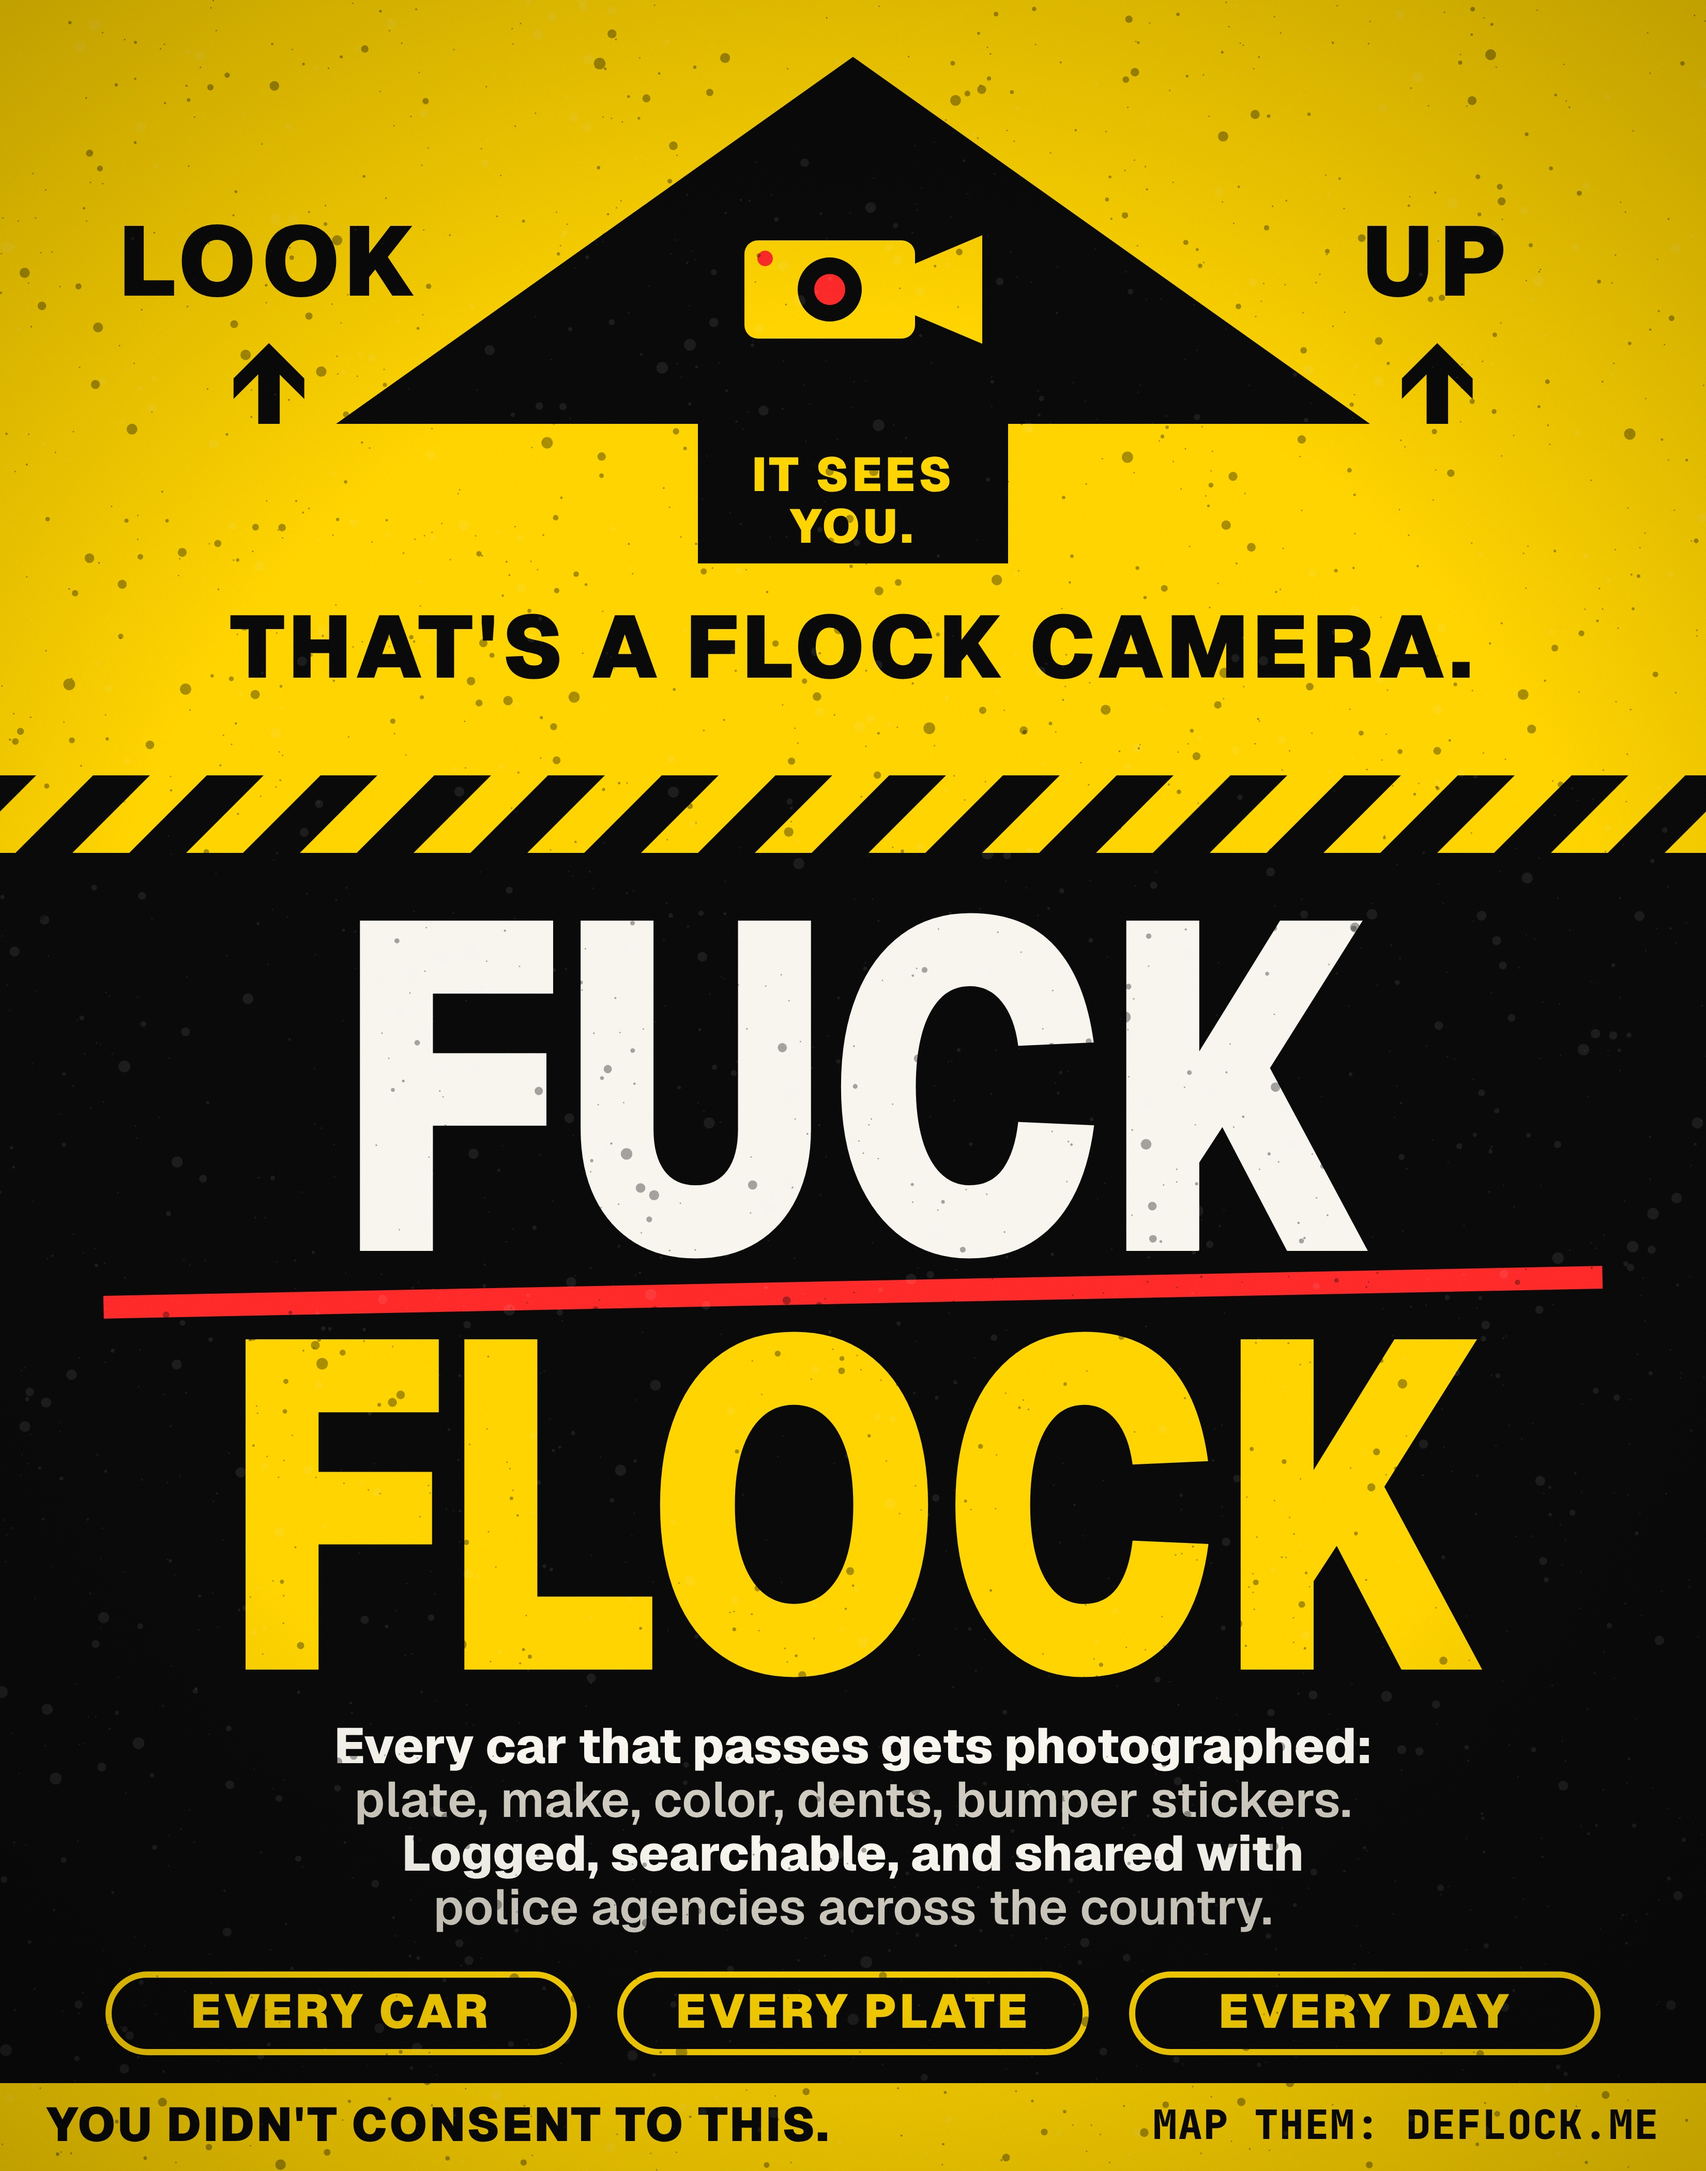
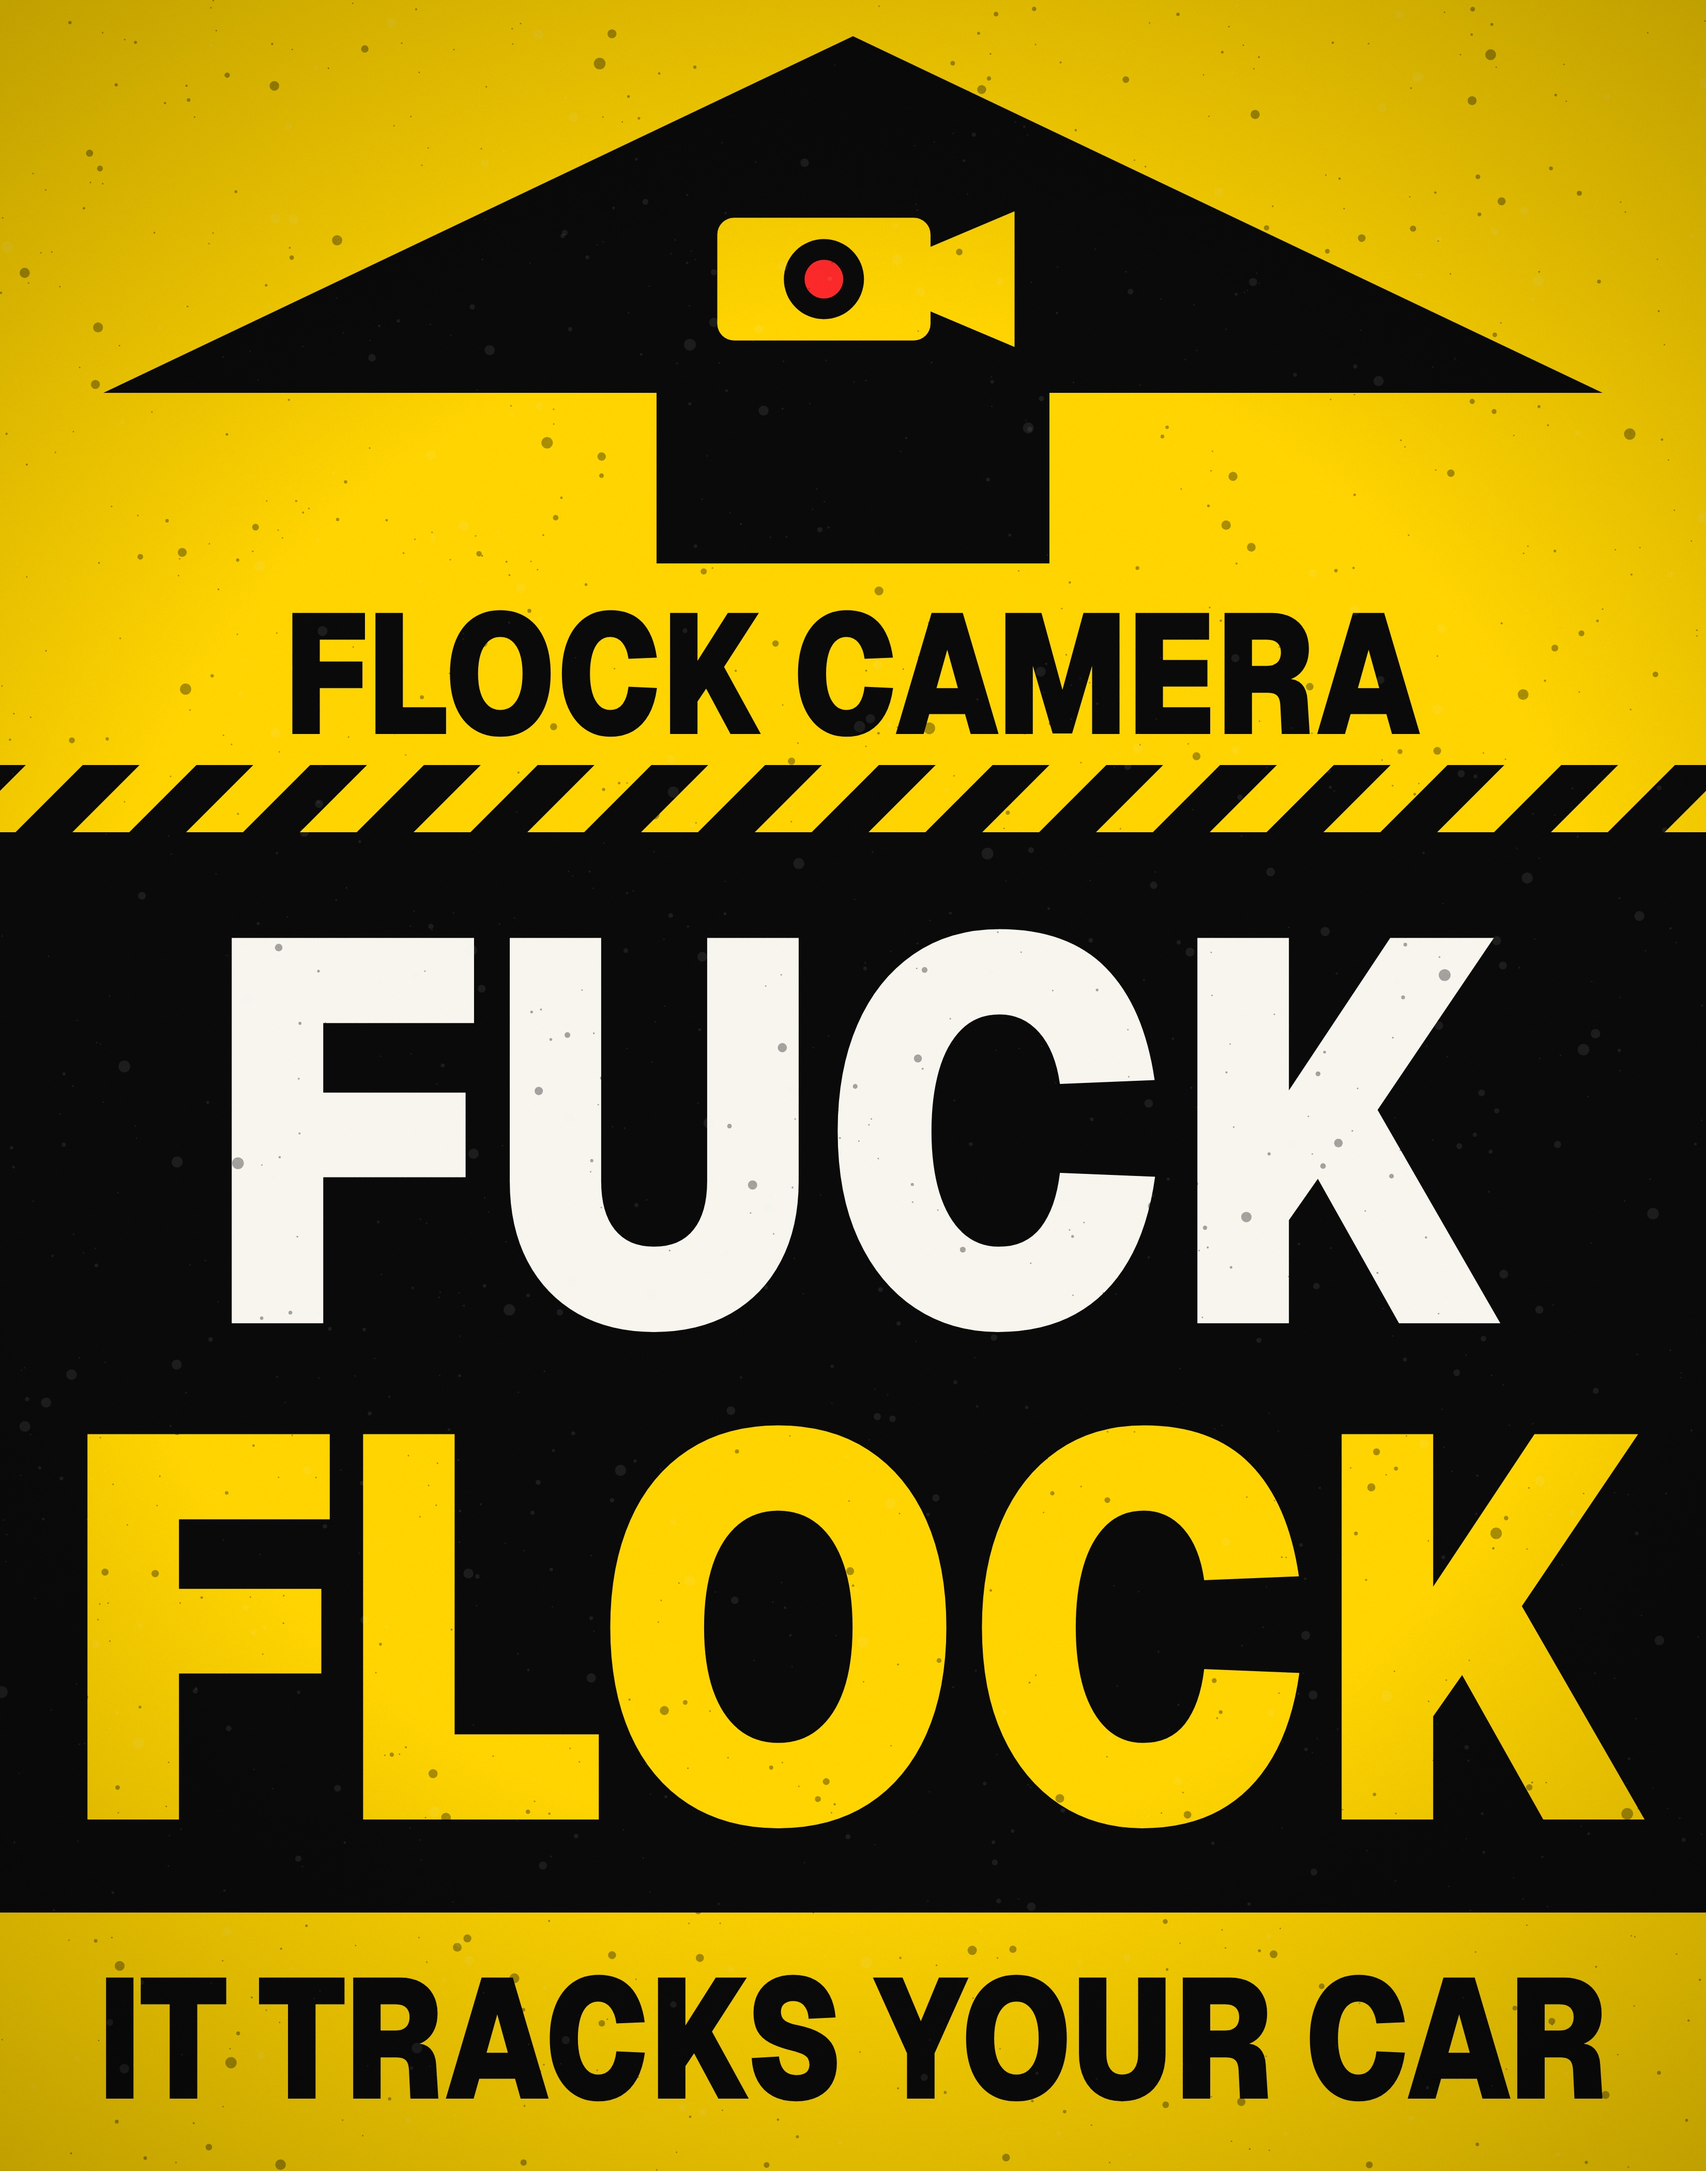
Fuck Flock poster: roadside edition, big words only
Claude-Session: https://claude.ai/code/session_01NSJvdmHsHoazKiuuGVQfMY

diff --git a/story/flock_poster.html b/story/flock_poster.html
@@ -22,47 +22,33 @@
 
   c.fillStyle = INK; c.fillRect(0, 0, W, H);
 
+  // Roadside edition: readable by passing drivers in ~2 seconds — arrow + 4 huge words, no small print.
   // ---------------- TOP: the arrow ----------------
-  // yellow field with a giant black arrow pointing straight up
-  c.fillStyle = YEL; c.fillRect(0, 0, W, 1500);
+  c.fillStyle = YEL; c.fillRect(0, 0, W, 1480);
   c.save(); c.fillStyle = INK; c.beginPath();
-  const ax = W / 2, tip = 110, headB = 820, headW = 1000, shaftW = 300, shaftB = 1090;
+  const ax = W / 2, tip = 70, headB = 760, headW = 1450, shaftW = 380, shaftB = 1090;
   c.moveTo(ax, tip); c.lineTo(ax + headW, headB); c.lineTo(ax + shaftW, headB); c.lineTo(ax + shaftW, shaftB); c.lineTo(ax - shaftW, shaftB); c.lineTo(ax - shaftW, headB); c.lineTo(ax - headW, headB); c.closePath(); c.fill(); c.restore();
-  // camera icon inside the arrow head
-  c.save(); c.translate(ax, 560); c.fillStyle = YEL; c.beginPath(); c.roundRect(-210, -95, 330, 190, 26); c.fill(); c.beginPath(); c.moveTo(120, -50); c.lineTo(250, -105); c.lineTo(250, 105); c.lineTo(120, 50); c.closePath(); c.fill();
-  c.fillStyle = INK; c.beginPath(); c.arc(-45, 0, 62, 0, TAU); c.fill(); c.fillStyle = RED; c.beginPath(); c.arc(-45, 0, 30, 0, TAU); c.fill(); c.fillStyle = RED; c.beginPath(); c.arc(-170, -60, 15, 0, TAU); c.fill(); c.restore();
-  // side labels on the yellow
-  line('LOOK', 520, 520, G(900, 190), INK, 'center', 10); line('UP', 2780, 520, G(900, 190), INK, 'center', 10);
-  line('↑', 520, 760, G(900, 220), INK); line('↑', 2780, 760, G(900, 220), INK);
-  line("THAT'S A FLOCK CAMERA.", ax, 1265, G(900, 170), INK, 'center', 8);
-  line('IT SEES', ax, 925, G(900, 92), YEL, 'center', 6); line('YOU.', ax, 1025, G(900, 92), YEL, 'center', 6);
+  // camera icon in the arrow head
+  c.save(); c.translate(ax, 540); c.scale(1.25, 1.25); c.fillStyle = YEL; c.beginPath(); c.roundRect(-210, -95, 330, 190, 26); c.fill(); c.beginPath(); c.moveTo(120, -50); c.lineTo(250, -105); c.lineTo(250, 105); c.lineTo(120, 50); c.closePath(); c.fill();
+  c.fillStyle = INK; c.beginPath(); c.arc(-45, 0, 62, 0, TAU); c.fill(); c.fillStyle = RED; c.beginPath(); c.arc(-45, 0, 30, 0, TAU); c.fill(); c.restore();
+  big('FLOCK CAMERA', W / 2, 1420, 330, INK, W - 200, 0.82, 0);
 
   // hazard stripe band
-  c.save(); c.beginPath(); c.rect(0, 1500, W, 150); c.clip(); c.fillStyle = INK; c.fillRect(0, 1500, W, 150); c.fillStyle = YEL;
-  for (let x = -300; x < W + 300; x += 220) { c.beginPath(); c.moveTo(x, 1650); c.lineTo(x + 110, 1650); c.lineTo(x + 260, 1500); c.lineTo(x + 150, 1500); c.closePath(); c.fill(); } c.restore();
+  c.save(); c.beginPath(); c.rect(0, 1480, W, 130); c.clip(); c.fillStyle = INK; c.fillRect(0, 1480, W, 130); c.fillStyle = YEL;
+  for (let x = -300; x < W + 300; x += 220) { c.beginPath(); c.moveTo(x, 1610); c.lineTo(x + 110, 1610); c.lineTo(x + 240, 1480); c.lineTo(x + 130, 1480); c.closePath(); c.fill(); } c.restore();
 
-  // ---------------- HEADLINE ----------------
-  big('FUCK', W / 2, 2420, 900, WHITE, W - 240, 0.8, -6);
-  big('FLOCK', W / 2, 3230, 900, YEL, W - 240, 0.8, -6);
-  // red redaction bar slashing through, behind nothing — a hit of red
-  c.save(); c.translate(W / 2, 2500); c.rotate(-0.02); c.fillStyle = RED; c.fillRect(-1450, -22, 2900, 44); c.restore();
+  // ---------------- HEADLINE: as big as the sheet allows ----------------
+  big('FUCK', W / 2, 2560, 1050, WHITE, W - 160, 0.86, -4);
+  big('FLOCK', W / 2, 3520, 1050, YEL, W - 160, 0.86, -4);
 
-  // ---------------- FACTS ----------------
-  const facts = ['Every car that passes gets photographed:', 'plate, make, color, dents, bumper stickers.', 'Logged, searchable, and shared with', 'police agencies across the country.'];
-  facts.forEach((s, i) => line(s, W / 2, 3385 + i * 104, G(i % 2 ? 600 : 800, 96), i % 2 ? '#CFCBC0' : WHITE));
-  // three chips
-  const chips = ['EVERY CAR', 'EVERY PLATE', 'EVERY DAY'], cw = 900, cg = 90, cx0 = (W - (3 * cw + 2 * cg)) / 2;
-  chips.forEach((s, i) => { const x = cx0 + i * (cw + cg); c.save(); c.beginPath(); c.roundRect(x, 3820, cw, 150, 75); c.lineWidth = 12; c.strokeStyle = YEL; c.stroke(); c.restore(); line(s, x + cw / 2, 3898, G(900, 92), YEL, 'center', 6); });
-
-  // ---------------- FOOTER ----------------
-  c.fillStyle = YEL; c.fillRect(0, 4030, W, 170);
-  line("YOU DIDN'T CONSENT TO THIS.", 90, 4117, G(900, 92), INK, 'left', 4);
-  line('MAP THEM: DEFLOCK.ME', W - 90, 4117, MONO(800, 78), INK, 'right', 2);
+  // ---------------- one line: why ----------------
+  c.fillStyle = YEL; c.fillRect(0, 3700, W, 500);
+  big('IT TRACKS YOUR CAR', W / 2, 4060, 330, INK, W - 200, 0.82, 0);
 
   // ---------------- stencil grunge ----------------
   // speckle knock-outs (spray-paint dropouts) + fine grain, so it reads like a street poster
   c.save(); c.globalCompositeOperation = 'source-atop';
-  for (let i = 0; i < 4500; i++) { const x = hash(i, 1) * W, y = hash(i, 2) * H, r = 1.5 + Math.pow(hash(i, 3), 6) * 10; c.fillStyle = hash(i, 4) > 0.5 ? 'rgba(10,10,10,0.35)' : 'rgba(247,245,238,0.08)'; c.beginPath(); c.arc(x, y, r, 0, TAU); c.fill(); }
+  for (let i = 0; i < 2500; i++) { const x = hash(i, 1) * W, y = hash(i, 2) * H, r = 1.5 + Math.pow(hash(i, 3), 6) * 10; c.fillStyle = hash(i, 4) > 0.5 ? 'rgba(10,10,10,0.35)' : 'rgba(247,245,238,0.08)'; c.beginPath(); c.arc(x, y, r, 0, TAU); c.fill(); }
   c.restore();
   const gr = document.createElement('canvas'); gr.width = gr.height = 512; const g = gr.getContext('2d'), d = g.createImageData(512, 512);
   for (let i = 0; i < d.data.length; i += 4) { const v = hash(i, 9) * 255; d.data[i] = d.data[i + 1] = d.data[i + 2] = v; d.data[i + 3] = 22; } g.putImageData(d, 0, 0);
